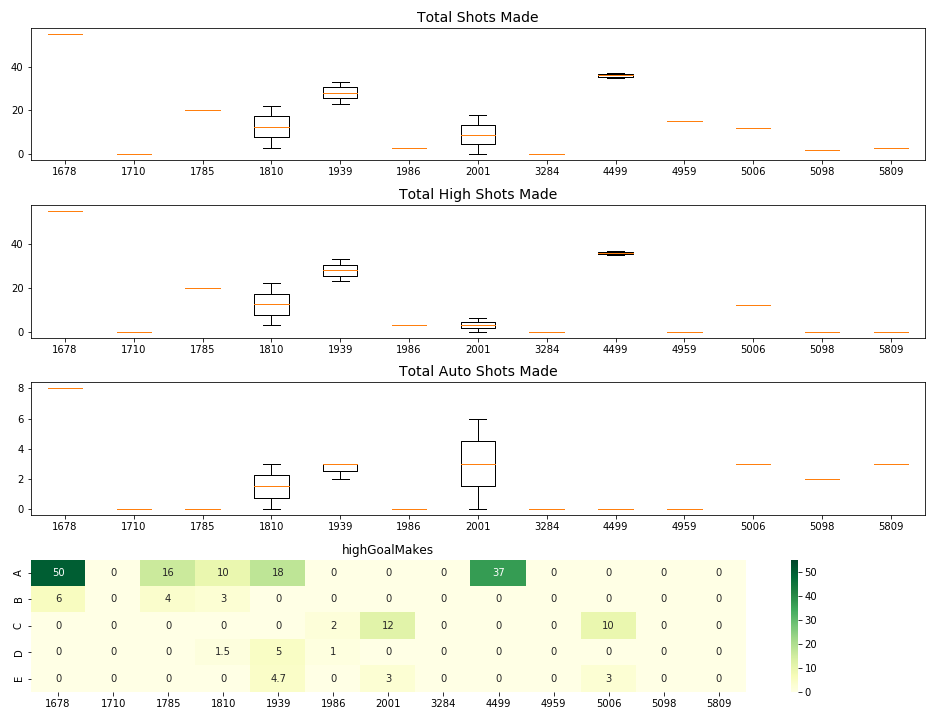
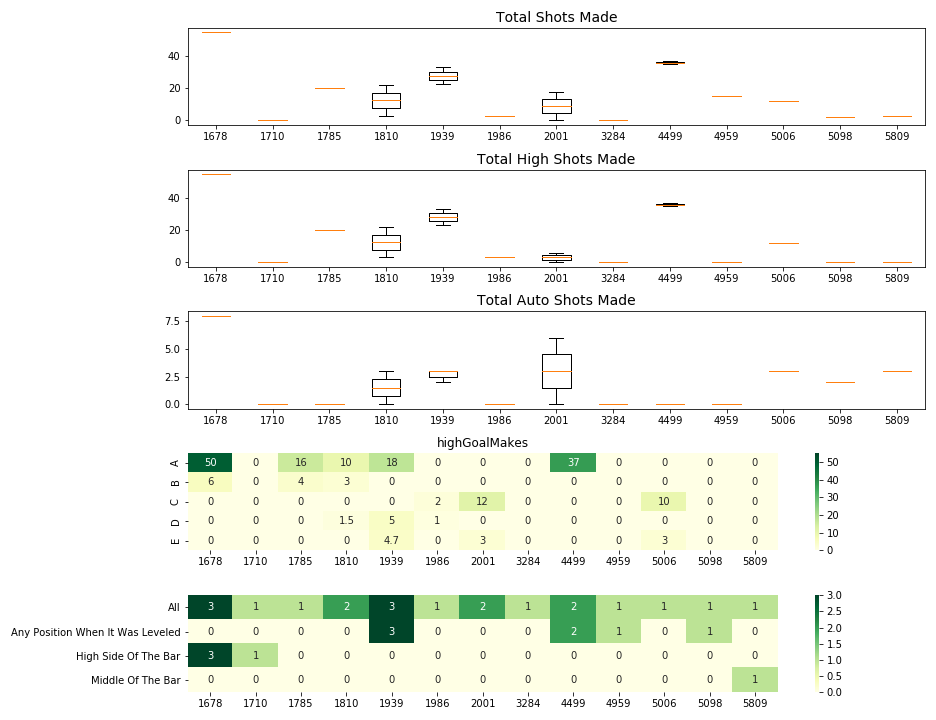
added a climbing heatmap to 2020graph functions

diff --git a/graphFunctions2020.py b/graphFunctions2020.py
@@ -163,13 +163,27 @@ def getPicklistBoxplotData(df, graphVar, title, ax):
     ax.set_xticklabels(teamList.get_values())
     ax.boxplot(dataArr) 
 
+def getClimbHeatMap(mainData, ax):
+    mainData['climbCounter'] = 1
+    climbData = mainData.set_index('teamNo').loc[:, ['climbLevel', 'climbCounter']]
+    climbData = pd.pivot_table(climbData.reset_index(), index=['teamNo', 'climbLevel'], aggfunc=sum)
+    climbSums = pd.pivot_table(climbData.reset_index(), index='teamNo', columns= 'climbLevel', aggfunc=sum, margins=True)
+    climbSums.fillna(0, inplace=True)
+    climbSums.drop('All', inplace=True)
+    xLabels = climbSums.index.to_series().values
+    climbSums = climbSums.stack(1).unstack(level=0)
+    climbSums.drop('No Climb', inplace=True)  
+    yLabels = climbSums.index.to_series().values
+    sb.heatmap(climbSums.to_numpy(), cmap="YlGn", ax=ax, annot=True, yticklabels=yLabels, xticklabels = xLabels)
+
+
 def getTeamList(df):
     teamList = df['teamNo'].drop_duplicates()
     return(teamList)
 
 def initPicklistGraph(teamList):
    fig = plt.figure(tight_layout=True, figsize=(len(teamList), 10))
-   gs = gridspec.GridSpec(4, 1)
+   gs = gridspec.GridSpec(5, 1)
    return fig, gs
 
 def initMatchReportGraph():
@@ -184,10 +198,12 @@ def picklistGraphs(df, cycleDf):
     ax2 = fig.add_subplot(gs[1, 0])
     ax3 = fig.add_subplot(gs[2, 0])
     ax4 = fig.add_subplot(gs[3, 0])
+    ax5 = fig.add_subplot(gs[4, 0])
     getPicklistBoxplotData(df, 'totalMakes', 'Total Shots Made', ax1)
     getPicklistBoxplotData(df, 'highGoalMakes', 'Total High Shots Made', ax2)
     getPicklistBoxplotData(df, 'autoMakes', 'Total Auto Shots Made', ax3)
     getPicklistHeatmap(df, cycleDf, ax4, 'highGoalMakes')
+    getClimbHeatMap(df, ax5)
     plt.savefig(input('Event name: ') + ' Picklist Graphs')
     plt.show()
 
@@ -206,7 +222,7 @@ def getPrematchScatterPlot(df, team, graphVar, ax):
   
 def getHeatMapPivot(df):
     firstmove = pd.pivot_table(df, index=['matchNo','teamNo','cycle'], columns='shooterPosition',aggfunc=np.sum).fillna(0)
-#    print(firstmove)
+    print(firstmove)
     secondmove = firstmove.groupby(axis=0,level=['matchNo','teamNo'])
     thirdmove = secondmove.sum()
 #    print(thirdmove)
